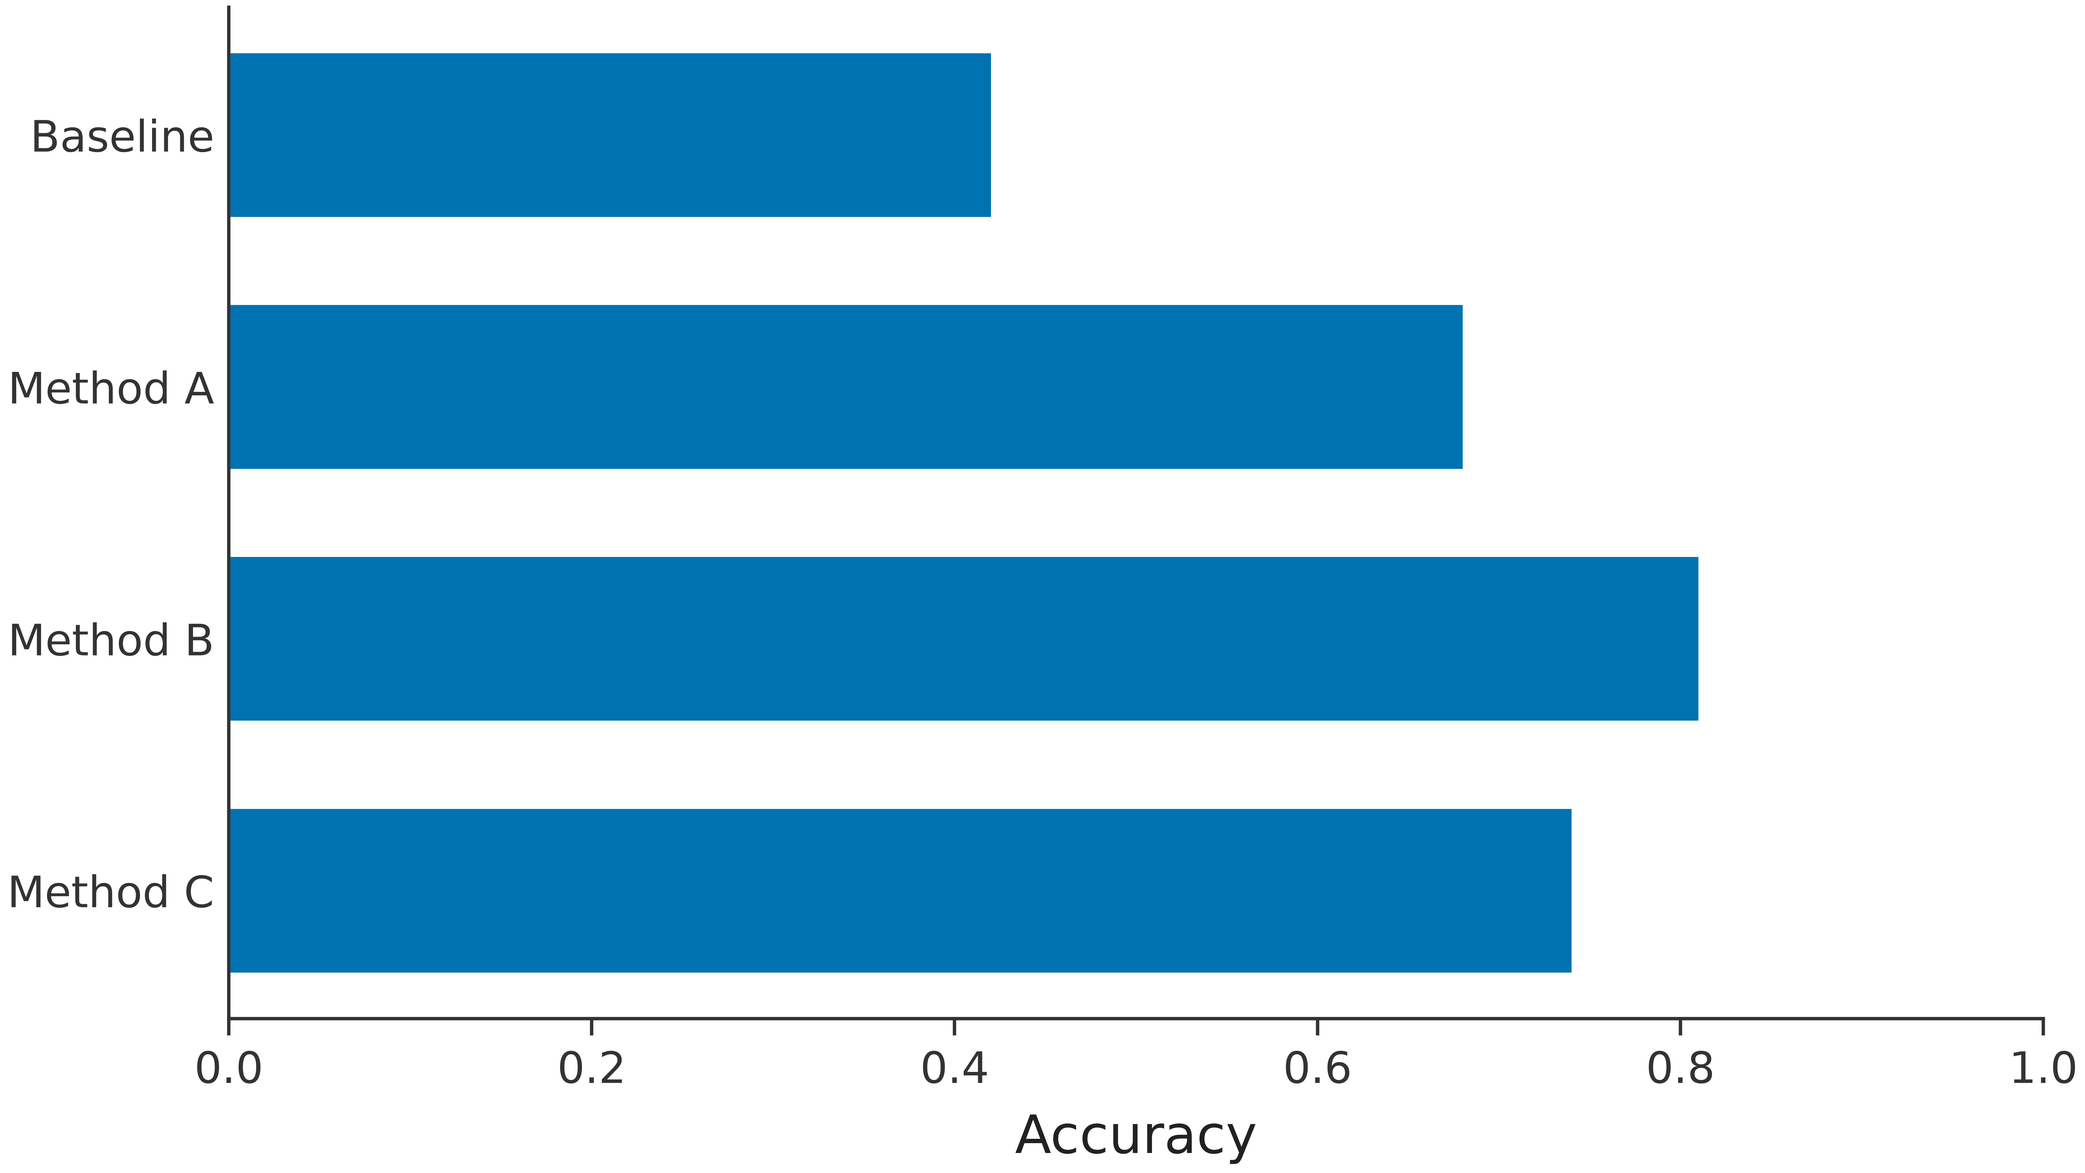
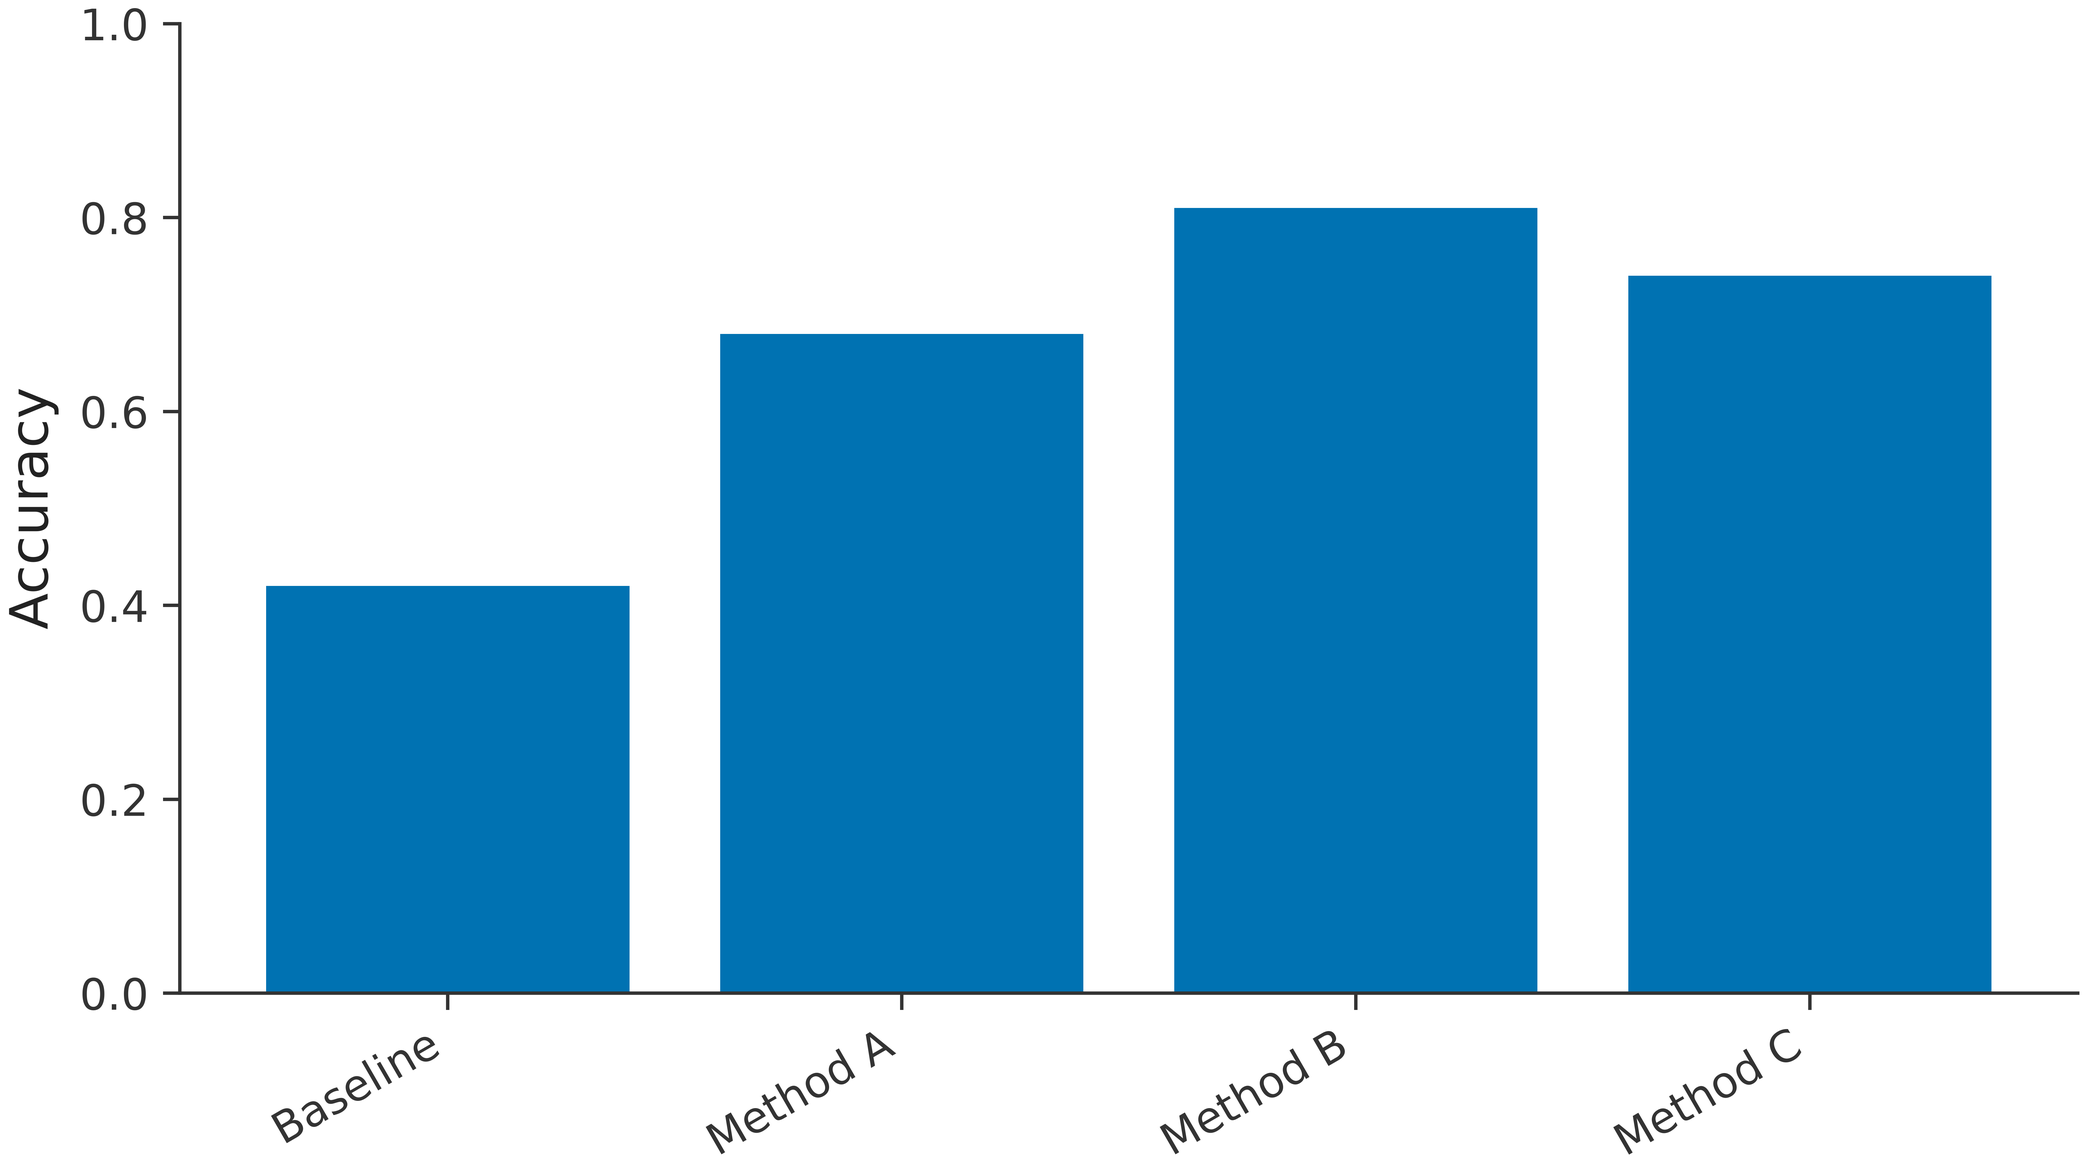
Improve scientific figure exports, guidance, and examples

diff --git a/examples/build_readme_figures.py b/examples/build_readme_figures.py
@@ -21,8 +21,6 @@ def build(name: str) -> None:
     with rosen_style.context(name):
         # Line plot with redundant color, marker, and label encodings.
         figure, axes = plt.subplots()
-        if name == "paper":
-            figure.set_figheight(figure.get_figheight() * 1.25)
         for phase, label, marker in zip(
             (0, 0.7, 1.4),
             ("control", "method A", "method B"),
@@ -32,19 +30,15 @@ def build(name: str) -> None:
             y = np.sin(x + phase) + rng.normal(0, 0.06, x.size)
             axes.plot(x, y, label=label, marker=marker, markevery=15)
         axes.set(xlabel="Time (s)", ylabel="Response (a.u.)")
-        axes.legend(
-            loc="lower left",
-            bbox_to_anchor=(0, 1.02),
-            ncols=2 if name == "paper" else 3,
-            borderaxespad=0,
-        )
+        figure.set_figheight(figure.get_figheight() * 1.35)
+        lower, upper = axes.get_ylim()
+        axes.set_ylim(lower, upper + 0.5 * (upper - lower))
+        axes.legend(loc="upper left")
         figure.savefig(OUTPUT / f"{name}.png")
         plt.close(figure)
 
         # Scatter plot with redundant color and shape encodings.
         figure, axes = plt.subplots()
-        if name == "paper":
-            figure.set_figheight(figure.get_figheight() * 1.25)
         for offset, label, marker in zip(
             (0.0, 0.7, 1.4),
             ("control", "method A", "method B"),
@@ -55,24 +49,22 @@ def build(name: str) -> None:
             response = 0.65 * values + rng.normal(0, 0.35, values.size)
             axes.scatter(values, response, label=label, marker=marker, alpha=0.8)
         axes.set(xlabel="Predictor (a.u.)", ylabel="Response (a.u.)")
-        axes.legend(
-            loc="lower left",
-            bbox_to_anchor=(0, 1.02),
-            ncols=2 if name == "paper" else 3,
-            borderaxespad=0,
-        )
+        figure.set_figheight(figure.get_figheight() * 1.35)
+        lower, upper = axes.get_ylim()
+        axes.set_ylim(lower, upper + 0.5 * (upper - lower))
+        axes.legend(loc="upper left")
         figure.savefig(OUTPUT / f"{name}_scatter.png")
         plt.close(figure)
 
-        # Horizontal bars keep category labels readable without rotation.
+        # Vertical bars with a zero baseline and readable category labels.
         figure, axes = plt.subplots()
         categories = ("Baseline", "Method A", "Method B", "Method C")
         values = (0.42, 0.68, 0.81, 0.74)
-        axes.barh(categories, values, height=0.65)
-        axes.set(xlabel="Accuracy", xlim=(0, 1))
-        axes.invert_yaxis()
+        axes.bar(categories, values)
+        axes.set(ylabel="Accuracy", ylim=(0, 1))
         axes.minorticks_off()
-        axes.tick_params(axis="y", length=0)
+        axes.tick_params(axis="x", pad=6, labelrotation=30)
+        plt.setp(axes.get_xticklabels(), horizontalalignment="right")
         figure.savefig(OUTPUT / f"{name}_bar.png")
         plt.close(figure)
 
@@ -90,6 +82,58 @@ def build(name: str) -> None:
         colorbar = figure.colorbar(image, ax=axes)
         colorbar.set_label("Intensity (a.u.)")
         figure.savefig(OUTPUT / f"{name}_heatmap.png")
+        plt.close(figure)
+
+        # Show observations as well as a clearly defined spread interval.
+        figure, axes = plt.subplots()
+        samples = rng.normal(loc=[0.4, 0.7, 0.9], scale=0.12, size=(12, 3))
+        for index, values in enumerate(samples.T):
+            jitter = rng.uniform(-0.12, 0.12, values.size)
+            axes.scatter(
+                index + jitter,
+                values,
+                color="0.6",
+                alpha=0.7,
+                label="Observations" if index == 0 else None,
+            )
+        axes.errorbar(
+            np.arange(3),
+            samples.mean(axis=0),
+            yerr=samples.std(axis=0, ddof=1),
+            fmt="o",
+            color="black",
+            capsize=3,
+            label="Mean ± SD",
+        )
+        axes.set(
+            xticks=np.arange(3),
+            xticklabels=["Control", "A", "B"],
+            ylabel="Response (a.u.)",
+            xlim=(-0.5, 2.5),
+        )
+        axes.minorticks_off()
+        figure.set_figheight(figure.get_figheight() * 1.35)
+        lower, upper = axes.get_ylim()
+        axes.set_ylim(lower, upper + 0.35 * (upper - lower))
+        axes.legend(loc="upper left")
+        figure.savefig(OUTPUT / f"{name}_uncertainty.png")
+        plt.close(figure)
+
+        # A shared symmetric scale gives equal weight to signed deviations.
+        figure, axes = plt.subplots()
+        residuals = np.array([[-2, -1, 0, 1], [1, 0, -1, 2], [-1, 2, 1, -2]])
+        image = axes.imshow(
+            residuals,
+            cmap="BrBG",
+            norm=mpl.colors.CenteredNorm(vcenter=0, halfrange=2),
+            interpolation="nearest",
+        )
+        axes.set(
+            xticks=np.arange(4), yticks=np.arange(3), xlabel="Sample", ylabel="Run"
+        )
+        axes.minorticks_off()
+        figure.colorbar(image, ax=axes, label="Residual (a.u.)")
+        figure.savefig(OUTPUT / f"{name}_diverging.png")
         plt.close(figure)
 
 

diff --git a/tests/test_style.py b/tests/test_style.py
@@ -1,8 +1,12 @@
 from __future__ import annotations
 
+import io
+import xml.etree.ElementTree as ET
+
 import matplotlib as mpl
 import matplotlib.pyplot as plt
 import pytest
+from PIL import Image
 
 import rosen_style
 
@@ -80,3 +84,41 @@ def test_unknown_style_is_rejected():
 def test_unknown_paper_column_count_is_rejected():
     with pytest.raises(ValueError, match="column count"):
         rosen_style.settings("paper", columns=3)
+
+
+@pytest.mark.parametrize("name", ["paper", "presentation"])
+def test_exports_preserve_text_and_background(name):
+    # Start from conflicting settings to check the applied style, not just defaults.
+    with mpl.rc_context({"savefig.facecolor": "black", "text.usetex": True}):
+        with rosen_style.context(name):
+            fig, ax = plt.subplots()
+            ax.plot([0, 1], [0, 1])
+            ax.set(xlabel="Time (s)", ylabel=r"Response $x^2$")
+            try:
+                pdf = io.BytesIO()
+                fig.savefig(pdf, format="pdf")
+                assert b"/FontFile2" in pdf.getvalue()
+                assert b"/Subtype /Type3" not in pdf.getvalue()
+
+                svg = io.BytesIO()
+                fig.savefig(svg, format="svg")
+                root = ET.fromstring(svg.getvalue())
+                texts = root.findall(".//{http://www.w3.org/2000/svg}text")
+                assert any("Time (s)" in "".join(text.itertext()) for text in texts)
+
+                for transparent in (False, True):
+                    png = io.BytesIO()
+                    # Omit the flag for the default-background regression check.
+                    kwargs = {"transparent": True} if transparent else {}
+                    fig.savefig(png, format="png", dpi=72, **kwargs)
+                    png.seek(0)
+                    with Image.open(png) as image:
+                        pixel = image.convert("RGBA").getpixel((0, 0))
+                        if transparent:
+                            assert pixel[3] == 0
+                        else:
+                            assert pixel == (255, 255, 255, 255)
+            finally:
+                plt.close(fig)
+        assert mpl.rcParams["text.usetex"] is True
+        assert mpl.rcParams["savefig.facecolor"] == "black"

diff --git a/src/rosen_style/_style.py b/src/rosen_style/_style.py
@@ -35,10 +35,18 @@ _COMMON: dict[str, object] = {
     "image.cmap": "plasma",
     "legend.frameon": False,
     "mathtext.fontset": "dejavusans",
+    # Keep publication text editable and embed TrueType fonts in PDF/PS.
+    "pdf.fonttype": 42,
+    "ps.fonttype": 42,
+    "svg.fonttype": "none",
     "savefig.bbox": None,
     "savefig.dpi": 600,
-    "savefig.transparent": True,
+    # Preserve contrast when figures are placed on a different background.
+    "savefig.facecolor": "white",
+    "savefig.edgecolor": "white",
+    "savefig.transparent": False,
     "text.color": "#222222",
+    "text.usetex": False,
     "xtick.color": "#333333",
     "xtick.direction": "out",
     "ytick.color": "#333333",

diff --git a/docs/figure-guide.md b/docs/figure-guide.md
@@ -1,0 +1,115 @@
+# Scientific figure guide
+
+`rosen_style` supplies a starting point; the data, audience, and destination still
+determine the figure. The recommendations below connect the defaults to their
+sources and explain choices that cannot be made by an rcParams style.
+
+## Defaults and deliberate choices
+
+| Concern | Package choice | Rationale |
+| --- | --- | --- |
+| Categorical color | Six colors from Okabe–Ito; existing order retained | Distinguish a few groups, with shapes or line styles as additional cues. [Wilke, chapters 19–20](https://clauswilke.com/dataviz/color-pitfalls.html) |
+| Continuous color | `plasma` | A sequential scale for ordered magnitudes. Choose a diverging scale explicitly when there is a meaningful midpoint. [Wilke, chapter 4](https://clauswilke.com/dataviz/color-basics.html) |
+| Typography | DejaVu Sans and matching MathText; paper labels 9–10 pt | Preview at the intended size and keep symbols in proportion to text. [Wilke, chapter 24](https://clauswilke.com/dataviz/small-axis-labels.html) |
+| Context | Visible left/bottom axes, no default grid | Retain orientation while limiting clutter; a light major grid can help comparisons. [Wilke, chapter 23](https://clauswilke.com/dataviz/balance-data-context.html) |
+| Export | White background; TrueType PDF/PS fonts; SVG text | Maintain contrast and allow text editing. [Nature figure specifications](https://research-figure-guide.nature.com/figures/preparing-figures-our-specifications/) |
+
+White saved backgrounds replace the previous transparent default. For deliberate
+compositing, use `fig.savefig("figure.png", transparent=True)` and inspect contrast
+on the destination background. PDF/PS now use font type 42, SVG uses live text,
+and the style explicitly selects MathText (`text.usetex=False`).
+
+The existing 600 DPI display and export settings, figure widths, palette, and
+font sizes are retained. These are group defaults, not universal journal rules.
+
+## Size and typography
+
+Build at the final physical size. `paper_size()` provides 3.25-inch and 7-inch
+widths, not a guarantee of compliance with any particular journal. Adjust height
+for the content; a golden-ratio rectangle is only a starting point. Reducing a
+7-inch figure to 3.5 inches also halves its text and marker sizes. Inspect the
+export at its final placement size, including tick labels, legends, and colorbars.
+[Wilke, chapter 24](https://clauswilke.com/dataviz/small-axis-labels.html)
+
+Publication requirements differ. Nature requests Arial or Helvetica and has its
+own lettering sizes; DejaVu Sans is retained here because Matplotlib bundles it.
+If required, install the journal's font and override it inside the style context.
+Check mathematical glyphs separately. Label axes with quantities and units, and
+keep text clear of data. [Nature figure specifications](https://research-figure-guide.nature.com/figures/preparing-figures-our-specifications/)
+
+```python
+import matplotlib as mpl
+import matplotlib.pyplot as plt
+import rosen_style
+
+with rosen_style.context("paper"):
+    # Example custom width, in millimeters. Use your journal's actual dimensions.
+    fig, ax = plt.subplots(figsize=(90 / 25.4, 65 / 25.4))
+    ax.plot([0, 1, 2], [0, 1, 0], marker="o")
+    ax.set(xlabel="Time (s)", ylabel="Response (a.u.)")
+    fig.savefig("response.pdf")
+```
+
+## Color and redundant encoding
+
+Keep category-to-color assignments consistent across panels. The cycle repeats
+after six series; use direct labels or small multiples for larger collections.
+Check grayscale and color-vision-deficiency simulations of the finished figure:
+a palette alone does not guarantee distinguishability, especially for thin lines.
+[Wilke, chapter 19](https://clauswilke.com/dataviz/color-pitfalls.html)
+
+Pair color with marker shapes, dash patterns, or nearby labels. The examples set
+these explicitly so a global marker cycle does not inadvertently imply discrete
+sampling for every line. [Wilke, chapter 20](https://clauswilke.com/dataviz/redundant-coding.html)
+
+For signed residuals, use a diverging colormap and a meaningful center. Equal
+positive and negative magnitudes should receive comparable visual weight; use
+common limits when comparing panels. [Wilke, chapter 4](https://clauswilke.com/dataviz/color-basics.html)
+
+```python
+with rosen_style.context("paper"):
+    fig, ax = plt.subplots()
+    residuals = [[-2, -1, 0], [0, 1, 2]]
+    image = ax.imshow(
+        residuals,
+        cmap="BrBG",
+        norm=mpl.colors.CenteredNorm(vcenter=0, halfrange=2),
+        interpolation="nearest",
+    )
+    ax.set(xticks=[0, 1, 2], yticks=[0, 1], xlabel="Sample", ylabel="Run")
+    ax.minorticks_off()
+    fig.colorbar(image, ax=ax, label="Residual (a.u.)")
+    fig.savefig("residuals.pdf")
+```
+
+## Honest scales and uncertainty
+
+Start linear bars at zero. Use positions (dots) when a nonzero range is necessary.
+If marker size represents a value, scale its area rather than its radius. Label
+transformations and axis breaks explicitly. [Wilke, chapter 17](https://clauswilke.com/dataviz/proportional-ink.html)
+
+Show observations or distributions when variation matters. For error bars or
+bands, state whether they show SD, SE, a confidence interval, or something else;
+give sample size and the calculation method in the caption. Do not infer
+significance simply from overlapping error bars. The example generator includes
+synthetic observations with mean ± one sample SD, explicitly distinguished from
+uncertainty in the mean. [Wilke, chapter 16](https://clauswilke.com/dataviz/visualizing-uncertainty.html)
+
+## Export and review
+
+Prefer PDF for publication and PNG for raster previews. For dense plots, set
+`rasterized=True` on the dense artist so axes and text remain vector graphics.
+DPI affects raster content; it does not sharpen vector lines.
+[Wilke, chapter 27](https://clauswilke.com/dataviz/image-file-formats.html)
+
+SVG text remains editable but requires the font on the viewing computer. PDF
+embeds a font subset and is the more portable choice. To prioritize SVG appearance
+over editable text, set `mpl.rcParams["svg.fonttype"] = "path"` before export.
+[Matplotlib font documentation](https://matplotlib.org/stable/users/explain/text/fonts.html)
+
+Before sharing, check clipping, overlaps, units, legend meaning, and comparable
+panel scales. Review the exported file, not only the plotting window. Provide a
+caption that explains the result and uncertainty, plus a text description for
+readers who cannot see the figure. Keep the source data and script alongside the
+figure so revisions remain reproducible. Adapt detail to the audience and medium.
+[Rougier, Droettboom & Bourne, *Ten Simple Rules for Better Figures*](https://doi.org/10.1371/journal.pcbi.1003833)

diff --git a/README.md b/README.md
@@ -44,7 +44,11 @@ with rosen_style.context("paper", columns=2):
 
 Outside the `with` block, Matplotlib's previous settings are restored. Mathematical notation such as `r"Position $x$"` is rendered by Matplotlib's built-in MathText engine and requires no external typesetting installation.
 
-The defaults use 600 DPI for display and saved output, a color-vision-friendly categorical cycle, the perceptually uniform `plasma` image colormap, readable labels, transparent saved backgrounds, no grid lines, and minor ticks in paper mode. Figure titles are intentionally left to captions or surrounding presentation content. Pair color with markers, line styles, or direct labels when it carries meaning.
+The defaults use 600 DPI for display and saved output, a color-vision-friendly categorical cycle, the perceptually uniform `plasma` image colormap, readable labels, white saved backgrounds, no grid lines, and minor ticks in paper mode. Figure titles are intentionally left to captions or surrounding presentation content. Pair color with markers, line styles, or direct labels when it carries meaning.
+
+Prefer `fig.savefig("response.pdf")` for publication: PDF/PS exports embed TrueType fonts, and SVG exports retain editable text (the viewing system needs the font installed). Saved backgrounds now default to white to preserve contrast; use `transparent=True` in `savefig` when transparency is intended.
+
+See the [scientific figure guide](docs/figure-guide.md) for source-backed design choices, final-size checks, journal overrides, uncertainty, diverging color scales, and export advice. The presets are group defaults, not journal-specific submission specifications.
 
 ## Examples
 
@@ -64,10 +68,20 @@ Heatmap with a perceptually uniform color scale:
 
 ![Paper heatmap](examples/paper_heatmap.png)
 
-CI regenerates and commits these images when their source or the styles change.
+Observations with mean ± one sample SD (synthetic data, 12 observations per group; these intervals show spread, not confidence intervals):
+
+![Paper observations and standard deviations](examples/paper_uncertainty.png)
+
+Signed residuals with a diverging scale centered at zero:
+
+![Paper diverging heatmap](examples/paper_diverging.png)
+
+CI builds these images for pull requests and commits regenerated images after changes reach `main`.
 
 ## Design references
 
 - [Claus O. Wilke, *Fundamentals of Data Visualization*](https://clauswilke.com/dataviz/)
+- [Nature research figure specifications](https://research-figure-guide.nature.com/figures/preparing-figures-our-specifications/)
+- [Rougier, Droettboom & Bourne, *Ten Simple Rules for Better Figures*](https://doi.org/10.1371/journal.pcbi.1003833)
 
 There are also many excellent Python examples on [The Python Graph Gallery](https://www.python-graph-gallery.com/) and [Python Charts](https://python-charts.com/) websites. For what not to do, check out the "[Friends Don't Let Friends Make Bad Graphs](https://github.com/cxli233/FriendsDontLetFriends)" repository.

diff --git a/docs/index.md b/docs/index.md
@@ -1,5 +1,21 @@
 # rosen_style
 
-Welcome to the documentation for the `rosen_style` code! Here you will find everything you need to get started with your own Python package.
+Readable Matplotlib defaults for Rosen Research Group papers and presentations.
 
-**Check out the corresponding ⭐[YouTube tutorial](https://www.youtube.com/watch?v=th2CqJ6oBuM)⭐ for a video overview!**
+```python
+import matplotlib.pyplot as plt
+import rosen_style
+
+with rosen_style.context("paper"):
+    fig, ax = plt.subplots()
+    ax.plot([0, 1, 2], [0, 1, 0], marker="o")
+    ax.set(xlabel="Time (s)", ylabel="Response (a.u.)")
+    fig.savefig("response.pdf")
+```
+
+Install with `pip install git+https://github.com/Quantum-Accelerators/rosen_style.git`.
+Use `"presentation"` for slides or `columns=2` for a double-column paper figure.
+The context manager restores your previous Matplotlib settings on exit.
+
+Read the [scientific figure guide](figure-guide.md) for design rationale,
+accessible encoding, uncertainty, and publication export advice.
